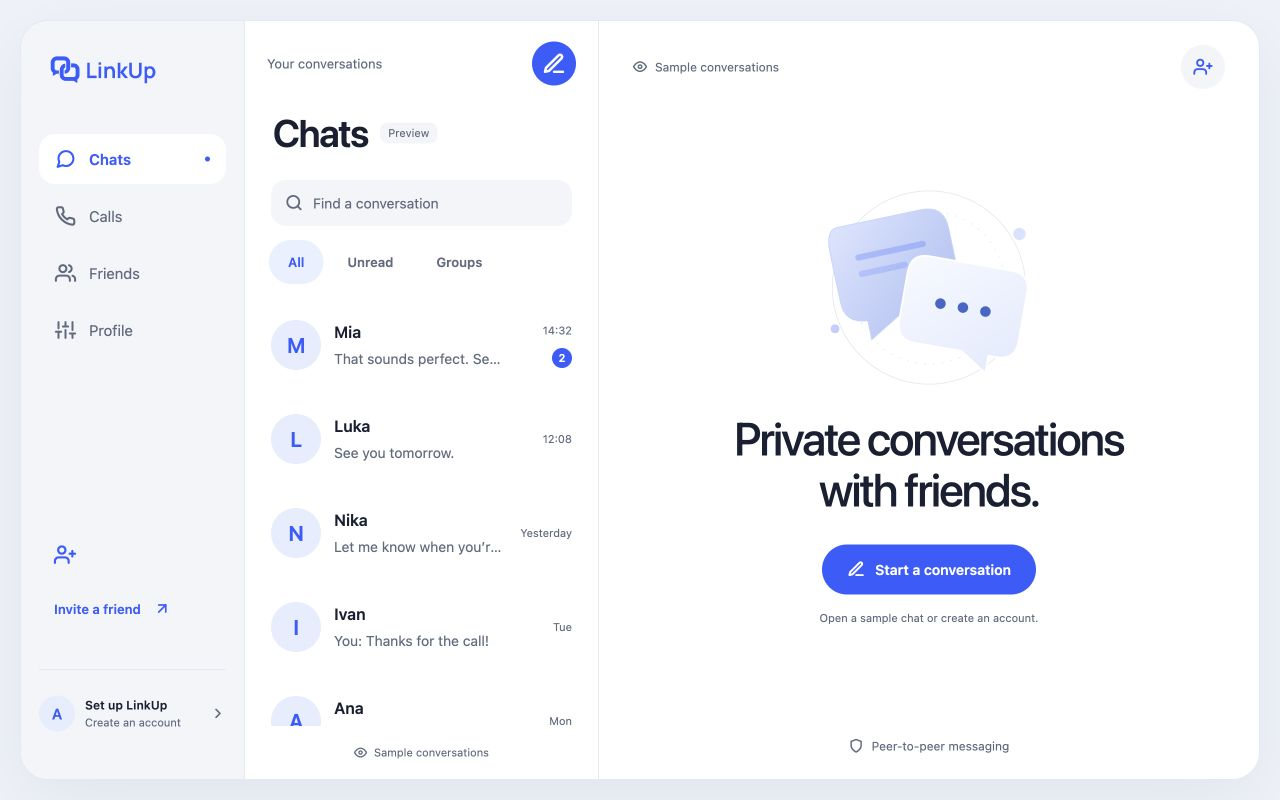
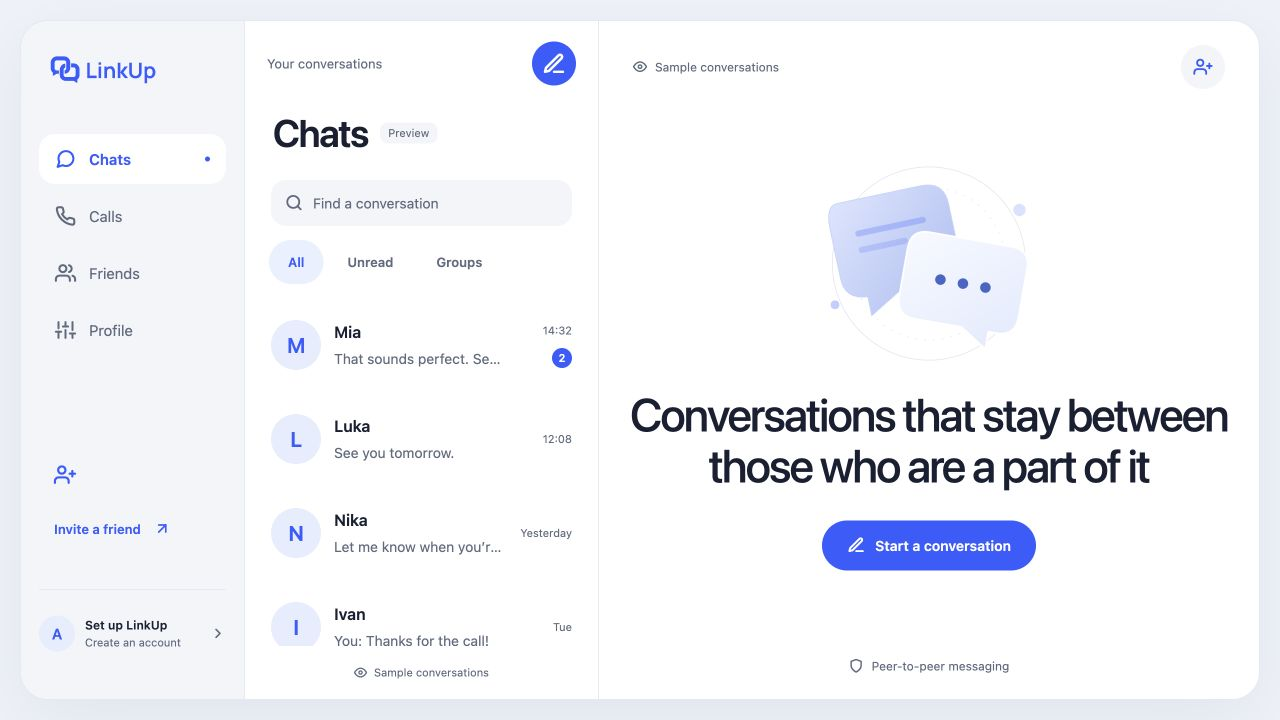
Use requested conversation headline and remove welcome helper text

diff --git a/app/src/design/Workspace.tsx b/app/src/design/Workspace.tsx
@@ -66,9 +66,8 @@ export function ConversationWelcome({ preview, onCompose, onInvite }: { preview:
     <View style={s.welcomeTop}><View style={s.quietLabel}><Feather name={preview ? 'eye' : 'lock'} size={14} color={c.sub} /><Text style={s.caption}>{preview ? 'Sample conversations' : 'End-to-end encrypted'}</Text></View><MotionPressable accessibilityRole="button" accessibilityLabel="Invite a friend" onPress={onInvite} style={s.topAction}><Feather name="user-plus" size={19} color={c.brand} /></MotionPressable></View>
     <Entrance style={s.welcomeBody} distance={12} duration={450}>
       <ConnectionArtwork size={282} />
-      <Text accessibilityRole="header" style={s.welcomeTitle}>Private conversations{ '\n' }with friends.</Text>
+      <Text accessibilityRole="header" style={s.welcomeTitle}>Conversations that stay between those who are a part of it</Text>
       <MotionPressable accessibilityRole="button" onPress={onCompose} style={s.startButton}><Feather name="edit-3" color={c.onButton} size={18} /><Text style={s.startButtonText}>Start a conversation</Text></MotionPressable>
-      {preview && <Text style={s.previewNote}>Open a sample chat or create an account.</Text>}
     </Entrance>
     <View style={s.welcomeFoot}><Feather name="shield" size={15} color={c.sub} /><Text style={s.caption}>{preview ? 'Peer-to-peer messaging' : 'Messages are end-to-end encrypted'}</Text></View>
   </ScrollView>;
@@ -81,5 +80,5 @@ const styles = (c: Palette) => StyleSheet.create({
   inviteNote: { padding: 15, marginBottom: 28, gap: 10 }, inviteIcon: { marginBottom: 5 }, inviteTitle: { fontSize: 17, lineHeight: 23, fontWeight: '600', color: c.ink, letterSpacing: -.3 }, inviteDescription: { fontSize: 13, lineHeight: 20, color: c.sub }, inviteButton: { flexDirection: 'row', alignItems: 'center', gap: 13, paddingTop: 10, minHeight: 44 }, inviteButtonText: { color: c.brand, fontSize: 13, fontWeight: '600' },
   account: { minHeight: 70, borderTopWidth: StyleSheet.hairlineWidth, borderColor: c.line, paddingTop: 18, flexDirection: 'row', alignItems: 'center', gap: 10 }, accountAvatar: { width: 36, height: 36, borderRadius: 18, backgroundColor: c.outgoing, alignItems: 'center', justifyContent: 'center' }, accountInitial: { color: c.avatarText, fontSize: 15, fontWeight: '600' }, accountName: { color: c.ink, fontSize: 12, fontWeight: '600' }, accountCaption: { color: c.sub, fontSize: 11 },
   welcome: { flex: 1, backgroundColor: c.paper }, welcomeTop: { minHeight: 92, paddingHorizontal: 34, flexDirection: 'row', alignItems: 'center', justifyContent: 'space-between' }, quietLabel: { flexDirection: 'row', alignItems: 'center', gap: 8 }, caption: { color: c.sub, fontSize: 12, lineHeight: 18 }, topAction: { width: 44, height: 44, borderRadius: 22, alignItems: 'center', justifyContent: 'center', backgroundColor: c.soft },
-  welcomeBody: { flex: 1, alignItems: 'center', justifyContent: 'center', paddingHorizontal: 28, paddingBottom: 20 }, welcomeTitle: { fontSize: 46, lineHeight: 51, letterSpacing: -2, fontWeight: '500', color: c.ink, textAlign: 'center', marginTop: 19 }, welcomeDescription: { fontSize: 15, lineHeight: 25, color: c.sub, textAlign: 'center', marginTop: 22 }, startButton: { minHeight: 50, paddingHorizontal: 25, borderRadius: 25, backgroundColor: c.button, flexDirection: 'row', alignItems: 'center', gap: 10, marginTop: 30 }, startButtonText: { color: c.onButton, fontSize: 14, fontWeight: '600' }, previewNote: { fontSize: 11, lineHeight: 17, color: c.sub, marginTop: 15, textAlign: 'center' }, welcomeFoot: { minHeight: 66, alignItems: 'center', justifyContent: 'center', flexDirection: 'row', gap: 8 },
+  welcomeBody: { flex: 1, alignItems: 'center', justifyContent: 'center', paddingHorizontal: 28, paddingBottom: 20 }, welcomeTitle: { fontSize: 46, lineHeight: 51, letterSpacing: -2, fontWeight: '500', color: c.ink, textAlign: 'center', marginTop: 19 }, welcomeDescription: { fontSize: 15, lineHeight: 25, color: c.sub, textAlign: 'center', marginTop: 22 }, startButton: { minHeight: 50, paddingHorizontal: 25, borderRadius: 25, backgroundColor: c.button, flexDirection: 'row', alignItems: 'center', gap: 10, marginTop: 30 }, startButtonText: { color: c.onButton, fontSize: 14, fontWeight: '600' }, welcomeFoot: { minHeight: 66, alignItems: 'center', justifyContent: 'center', flexDirection: 'row', gap: 8 },
 });

diff --git a/app/DESIGN.md b/app/DESIGN.md
@@ -8,7 +8,7 @@ LinkUp is a private messenger for conversations with people you know. Blue is it
 - Desktop web uses an adaptive navigation rail, conversation list and reading pane. Short windows keep actions reachable through scrolling.
 - System type, consistent alignment and a restrained hierarchy keep names, messages and supporting information readable.
 - Shared controls provide brief spring and pressed feedback. Reduced-motion preferences remove movement while keeping visual feedback. Browser controls have visible keyboard focus.
-- Search matches conversation names and text history. Preview conversations are clearly marked as samples. The welcome text is “Private conversations with friends.” Supporting copy is functional and concise. The unread filter is shown only in the sample preview until persistent read tracking is available for real accounts.
+- Search matches conversation names and text history. Preview conversations are clearly marked as samples. The welcome text is “Conversations that stay between those who are a part of it”, with no supporting text under the start button. The unread filter is shown only in the sample preview until persistent read tracking is available for real accounts.
 - Appearance settings support light, dark and scheduled automatic modes, with customizable semantic colors. Exact untouched earlier defaults migrate to the blue palette; custom palettes remain intact.
 
 Updated surfaces include conversations, profile, appearance, friends and invitations, groups, app lock, calls, connection setup, notifications and updates. The invitation and download pages use the same blue visual identity. The README links to Android downloads and the hosted desktop web app.
